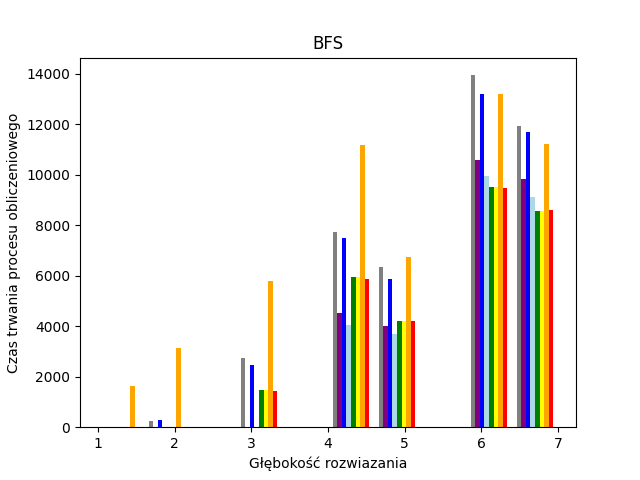
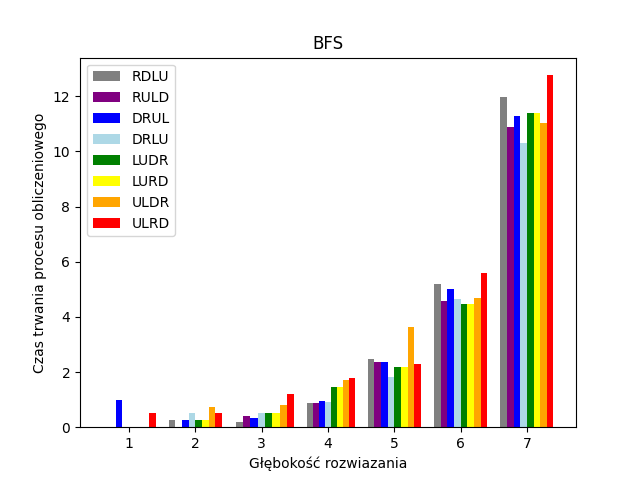
fixed graphs FINALLY

Changed region(s): [[0.1562, 0.1562, 0.875, 0.9375], [0.0, 0.125, 0.2812, 0.8125], [0.125, 0.9062, 0.1562, 0.9375]]

diff --git a/graphs.py b/graphs.py
@@ -6,7 +6,7 @@ import pandas as pd
 import csv as csv
 
 
-def summaryGraph(data, criterion_nr, criterion_name, filename):
+def summaryGraph(data, criterion_nr, criterion_name, filename, strange_numbers):
     plt.clf()
 
     sum_astar = []  # pierwsze dla ilości zliczonych obiektów, reszta to głębokość rozwiązania = index
@@ -47,16 +47,19 @@ def summaryGraph(data, criterion_nr, criterion_name, filename):
 
     x = [1, 2, 3, 4, 5, 6, 7]
     plt.hist([x, x, x], weights=[avg_astar_table, avg_bfs_table, avg_dfs_table], label=['A*', 'BFS', 'DFS'],
-             color=['blue', 'purple', 'green'])
+             color=['blue', 'purple', 'green'], bins=[0.5, 1.5, 2.5, 3.6, 4.5, 5.5, 6.5, 7.5])
     plt.title('Ogólne')
     plt.xlabel('Głębokość rozwiazania')
     plt.ylabel(criterion_name)
+    plt.legend(('A*', 'BFS', 'DFS'), loc='upper left')
+    if strange_numbers is True:
+        plt.yscale("log")
     #plt.savefig('ogolne_' + criterion_name)
     plt.savefig('./graphs/'+filename)
-   # plt.show()
+    plt.show()
 
 
-def astarGraph(data, criterion_nr, criterion_name, filename):
+def astarGraph(data, criterion_nr, criterion_name, filename, strange_numbers):
     plt.clf()
 
     sum_manh = []
@@ -86,14 +89,19 @@ def astarGraph(data, criterion_nr, criterion_name, filename):
         avg_hamm_table.append(sum_hamm[i + 1] / hamm[i])
 
     x = [1, 2, 3, 4, 5, 6, 7]
-    plt.hist([x, x], weights=[avg_manh_table, avg_hamm_table], label=['Manhattan', 'Hamming'], color=['blue', 'purple'])
+    plt.hist([x, x], weights=[avg_manh_table, avg_hamm_table], label=['Manhattan', 'Hamming'], color=['blue', 'purple'],
+             bins=[0.5, 1.5, 2.5, 3.6, 4.5, 5.5, 6.5, 7.5])
     plt.title('A*')
     plt.xlabel('Głębokość rozwiazania')
     plt.ylabel(criterion_name)
+    plt.legend(('Manhattan', 'Hamming'), loc='upper left')
+    if strange_numbers is True:
+        plt.yscale("log")
     plt.savefig('./graphs/'+filename)
+    plt.show()
 
 
-def dfsGraph(data, criterion_nr, criterion_name, filename):
+def dfsGraph(data, criterion_nr, criterion_name, filename, strange_numbers):
     plt.clf()
 
     sum_RDUL = []
@@ -181,14 +189,19 @@ def dfsGraph(data, criterion_nr, criterion_name, filename):
              weights=[avg_RDLU_table, avg_RDUL_table, avg_DRUL_table, avg_DRLU_table,
                       avg_LUDR_table, avg_LURD_table, avg_ULDR_table, avg_ULRD_table],
              label=['RDLU', 'RULD', 'DRUL', 'DRLU', 'LUDR', 'LURD', 'ULDR', 'ULRD'],
-             color=['grey', 'purple', 'blue', 'lightblue', 'green', 'yellow', 'orange', 'red'])
+             color=['grey', 'purple', 'blue', 'lightblue', 'green', 'yellow', 'orange', 'red'],
+             bins=[0.5, 1.5, 2.5, 3.6, 4.5, 5.5, 6.5, 7.5])
     plt.title('DFS')
     plt.xlabel('Głębokość rozwiazania')
     plt.ylabel(criterion_name)
+    plt.legend(('RDLU', 'RULD', 'DRUL', 'DRLU', 'LUDR', 'LURD', 'ULDR', 'ULRD'), loc='upper left')
+    if strange_numbers is True:
+        plt.yscale("log")
     plt.savefig('./graphs/'+filename)
+    plt.show()
 
 
-def bfsGraph(data, criterion_nr, criterion_name, filename):
+def bfsGraph(data, criterion_nr, criterion_name, filename, strange_numbers):
     plt.clf()
 
     sum_RDUL = []
@@ -227,7 +240,7 @@ def bfsGraph(data, criterion_nr, criterion_name, filename):
     ulrd = [0.0] * 7
 
     for d in data:
-        if d[2] == 'dfs':
+        if d[2] == 'bfs':
             if d[3] == 'rdul':
                 sum_RDUL[int(d[0])] += float(d[criterion_nr + 3])
                 sum_RDUL[0] += 1
@@ -276,11 +289,16 @@ def bfsGraph(data, criterion_nr, criterion_name, filename):
              weights=[avg_RDLU_table, avg_RDUL_table, avg_DRUL_table, avg_DRLU_table,
                       avg_LUDR_table, avg_LURD_table, avg_ULDR_table, avg_ULRD_table],
              label=['RDLU', 'RULD', 'DRUL', 'DRLU', 'LUDR', 'LURD', 'ULDR', 'ULRD'],
-             color=['grey', 'purple', 'blue', 'lightblue', 'green', 'yellow', 'orange', 'red'])
+             color=['grey', 'purple', 'blue', 'lightblue', 'green', 'yellow', 'orange', 'red'],
+             bins=[0.5, 1.5, 2.5, 3.6, 4.5, 5.5, 6.5, 7.5])
     plt.title('BFS')
     plt.xlabel('Głębokość rozwiazania')
     plt.ylabel(criterion_name)
+    plt.legend(('RDLU', 'RULD', 'DRUL', 'DRLU', 'LUDR', 'LURD', 'ULDR', 'ULRD'), loc='upper left')
+    if strange_numbers is True:
+        plt.yscale("log")
     plt.savefig('./graphs/'+filename)
+    plt.show()
 
 
 # method, order/heuristic, solution length, amount visited, amount processed, max depth, execution time
@@ -326,28 +344,28 @@ for i in range(0,int(dataFrame.__sizeof__()/9)):
 
 
 
-summaryGraph(dataFrame, 1, "Długość rozwiązania", "ogolne_dlugosc_rozwiazania")
-astarGraph(dataFrame, 1, "Długość rozwiązania", "astr_dlugosc_rozwiazania")
-bfsGraph(dataFrame, 1, "Długość rozwiązania", "bfs_dlugosc_rozwiazania")
-dfsGraph(dataFrame, 1, "Długość rozwiązania", "dfs_dlugosc_rozwiazania")
+summaryGraph(dataFrame, 1, "Długość rozwiązania", "ogolne_dlugosc_rozwiazania", False)
+astarGraph(dataFrame, 1, "Długość rozwiązania", "astr_dlugosc_rozwiazania", False)
+bfsGraph(dataFrame, 1, "Długość rozwiązania", "bfs_dlugosc_rozwiazania", False)
+dfsGraph(dataFrame, 1, "Długość rozwiązania", "dfs_dlugosc_rozwiazania", False)
 
-summaryGraph(dataFrame, 2, "Liczba stanów odwiedzonych", "ogolne_odwiedzone")
-astarGraph(dataFrame, 2, "Liczba stanów odwiedzonych", "astr_odwiedzone")
-bfsGraph(dataFrame, 2, "Liczba stanów odwiedzonych", "bfs_odwiedzone")
-dfsGraph(dataFrame, 2, "Liczba stanów odwiedzonych", "dfs_odwiedzone")
+summaryGraph(dataFrame, 2, "Liczba stanów odwiedzonych", "ogolne_odwiedzone", True)
+astarGraph(dataFrame, 2, "Liczba stanów odwiedzonych", "astr_odwiedzone", False)
+bfsGraph(dataFrame, 2, "Liczba stanów odwiedzonych", "bfs_odwiedzone", False)
+dfsGraph(dataFrame, 2, "Liczba stanów odwiedzonych", "dfs_odwiedzone", False)
 
-summaryGraph(dataFrame, 3, "Liczba stanów przetworzonych", "ogolne_przetworzone")
-astarGraph(dataFrame, 3, "Liczba stanów przetworzonych", "astr_przetworzone")
-bfsGraph(dataFrame, 3, "Liczba stanów przetworzonych", "bfs_przetworzone")
-dfsGraph(dataFrame, 3, "Liczba stanów przetworzonych", "dfs_przetworzone")
+summaryGraph(dataFrame, 3, "Liczba stanów przetworzonych", "ogolne_przetworzone", True)
+astarGraph(dataFrame, 3, "Liczba stanów przetworzonych", "astr_przetworzone", False)
+bfsGraph(dataFrame, 3, "Liczba stanów przetworzonych", "bfs_przetworzone", False)
+dfsGraph(dataFrame, 3, "Liczba stanów przetworzonych", "dfs_przetworzone", False)
 
-summaryGraph(dataFrame, 4, "Maksymalna osiągnięta głębokość rekursji", "ogolne_głębokość")
-astarGraph(dataFrame, 4, "Maksymalna osiągnięta głębokość rekursji", "astr_głębokość")
-bfsGraph(dataFrame, 4, "Maksymalna osiągnięta głębokość rekursji", "bfs_głębokość")
-dfsGraph(dataFrame, 4, "Maksymalna osiągnięta głębokość rekursji", "dfs_głębokość")
+summaryGraph(dataFrame, 4, "Maksymalna osiągnięta głębokość rekursji", "ogolne_głębokość", False)
+astarGraph(dataFrame, 4, "Maksymalna osiągnięta głębokość rekursji", "astr_głębokość", False)
+bfsGraph(dataFrame, 4, "Maksymalna osiągnięta głębokość rekursji", "bfs_głębokość", False)
+dfsGraph(dataFrame, 4, "Maksymalna osiągnięta głębokość rekursji", "dfs_głębokość", False)
 
-summaryGraph(dataFrame, 5, "Czas trwania procesu obliczeniowego", "ogolne_czas")
-astarGraph(dataFrame, 5, "Czas trwania procesu obliczeniowego", "astr_czas")
-bfsGraph(dataFrame, 5, "Czas trwania procesu obliczeniowego", "bfs_czas")
-dfsGraph(dataFrame, 5, "Czas trwania procesu obliczeniowego", "dfs_czas")
+summaryGraph(dataFrame, 5, "Czas trwania procesu obliczeniowego", "ogolne_czas", True)
+astarGraph(dataFrame, 5, "Czas trwania procesu obliczeniowego", "astr_czas", False)
+bfsGraph(dataFrame, 5, "Czas trwania procesu obliczeniowego", "bfs_czas", False)
+dfsGraph(dataFrame, 5, "Czas trwania procesu obliczeniowego", "dfs_czas", False)
 
